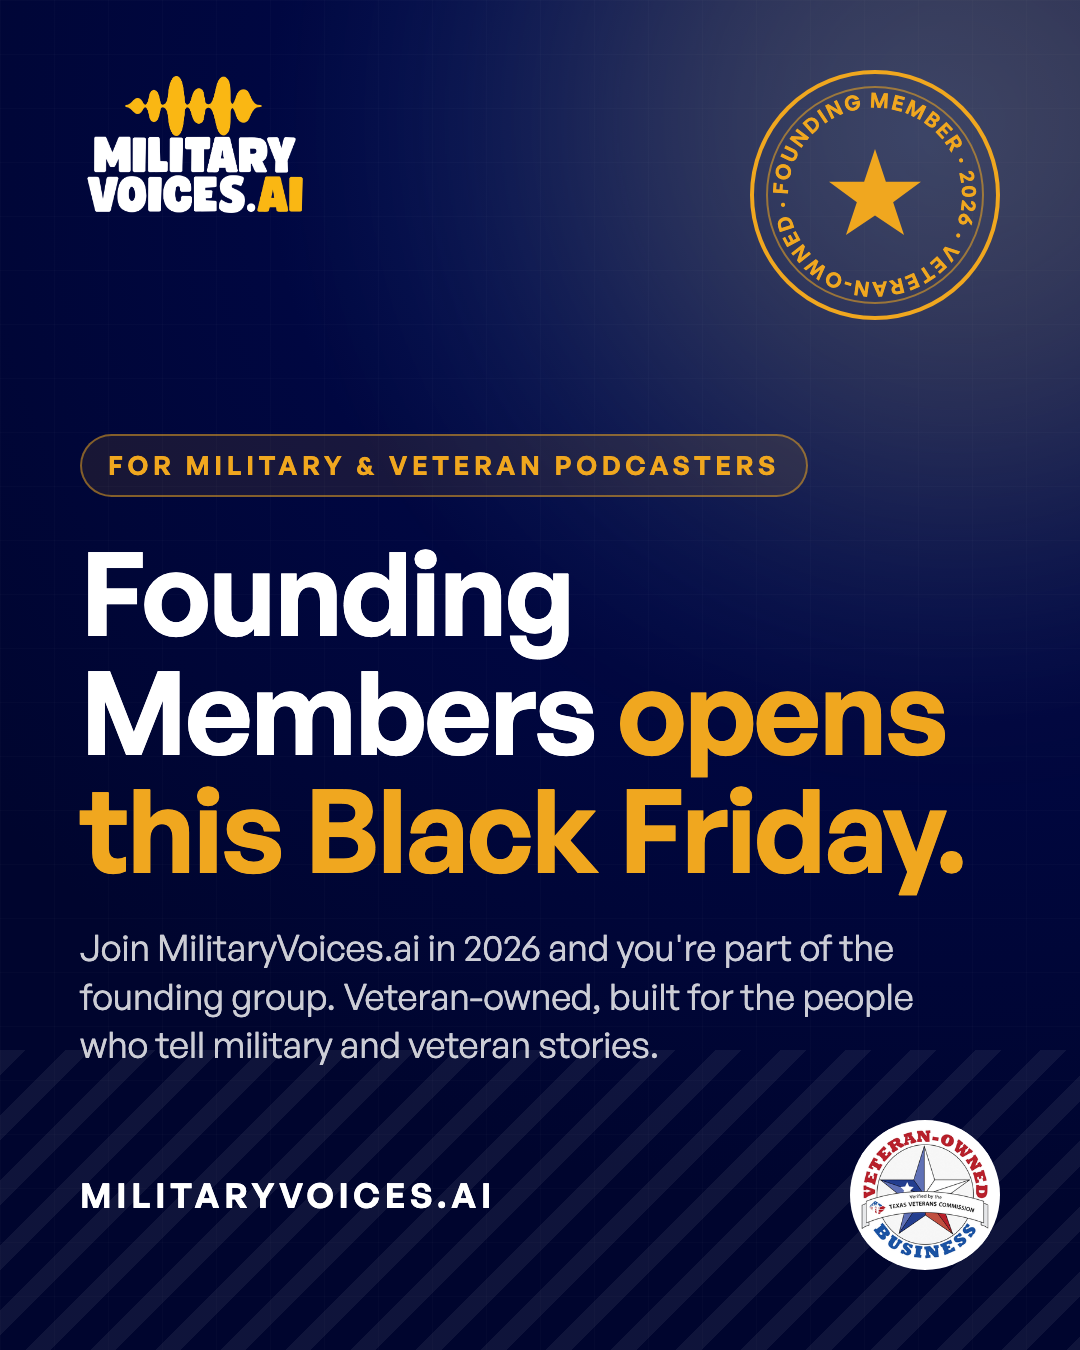
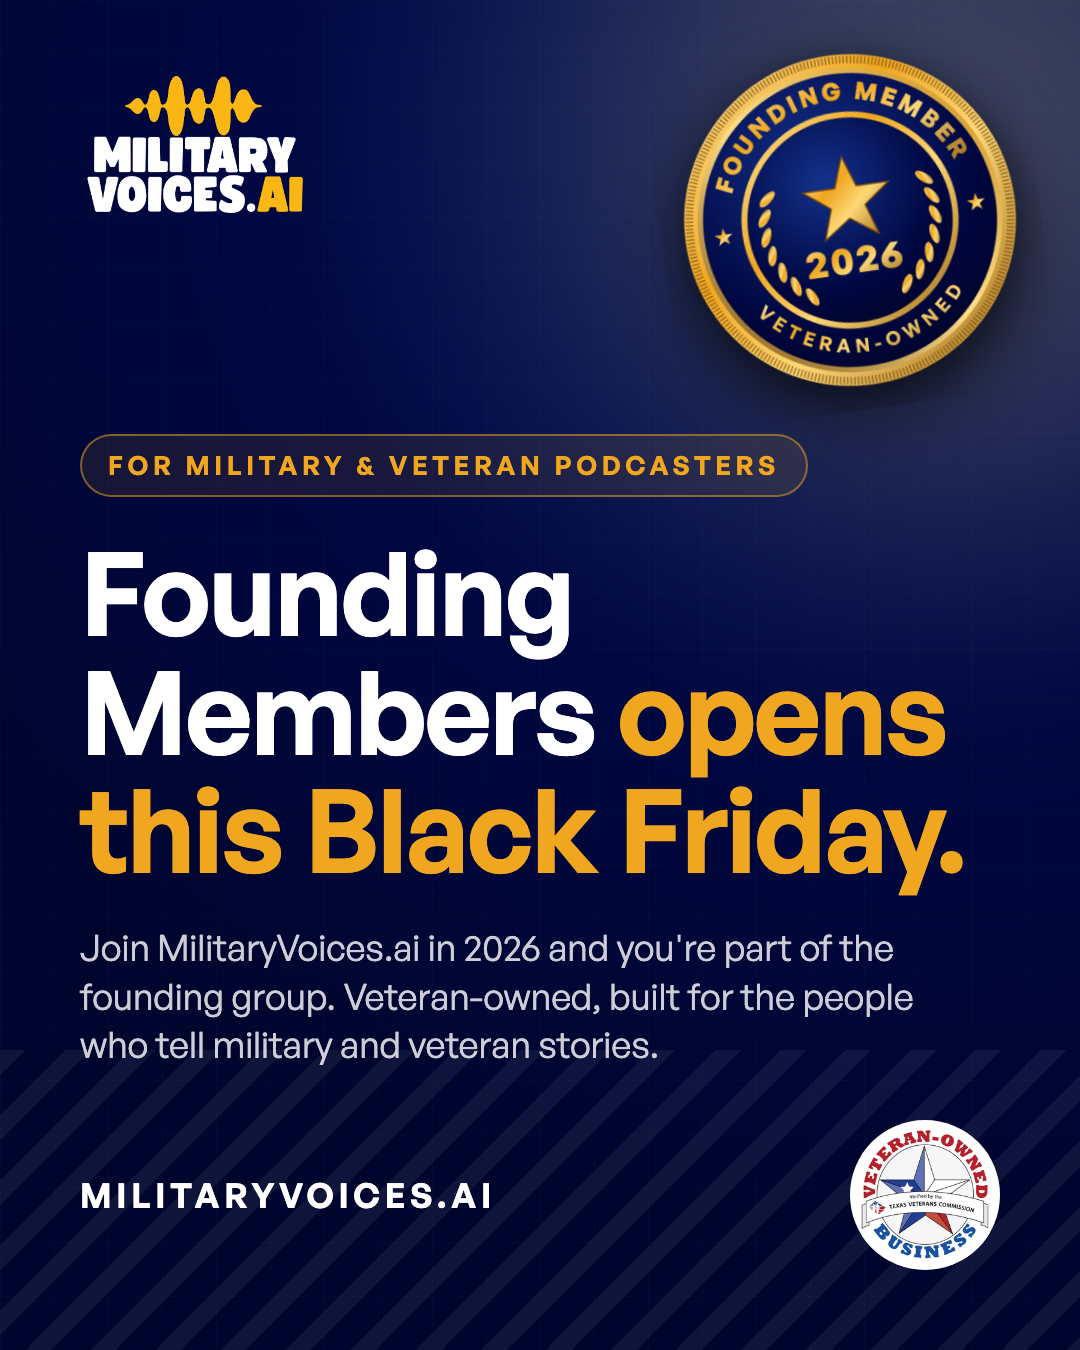
Mon 23 teaser: the Founding Member challenge coin (Andrew's pick) replaces the seal on both sizes; nothing posted

Changed region(s): [[0.6111, 0.0311, 0.9778, 0.3111]]

diff --git a/creative/black-friday/teaser.html b/creative/black-friday/teaser.html
@@ -2,7 +2,7 @@
 <!--
   Founding Members 2026: the Mon 23 Nov teaser graphic (draft for Andrew's approval; nothing posts without his go).
   Render: teaser.html?size=portrait (1080×1350, Instagram/Facebook) or ?size=wide (1600×900, LinkedIn/Facebook/X).
-  Logo and badge are the site's own (client/public). No names, no numbers, no date beyond Black Friday.
+  Logo and Veteran-Owned badge are the site's own (client/public); the coin is badge-coin.png (Andrew's pick, 20 Nov). No names, no numbers, no date beyond Black Friday.
 -->
 <html>
 <head>
@@ -22,10 +22,7 @@
   .stripes { position: absolute; left: 0; right: 0; bottom: 0; opacity: .06;
     background: repeating-linear-gradient(135deg, #fff 0 18px, transparent 18px 46px); }
   .logo { position: absolute; }
-  .seal { position: absolute; border-radius: 50%; border: 4px solid #F0A71F; display: flex; align-items: center; justify-content: center; }
-  .seal::before { content: ""; position: absolute; inset: 12px; border-radius: 50%; border: 2px solid rgba(240,167,31,.55); }
-  .seal svg { position: absolute; inset: 0; width: 100%; height: 100%; }
-  .seal .star { color: #F0A71F; }
+  .seal { position: absolute; transform: rotate(-8deg); filter: drop-shadow(0 24px 40px rgba(0,0,0,.5)); }
   .eyebrow { display: inline-block; color: #F0A71F; font-weight: 600; letter-spacing: .18em; text-transform: uppercase; border: 2px solid rgba(240,167,31,.5); background: rgba(240,167,31,.1); border-radius: 999px; }
   h1 { font-weight: 600; letter-spacing: -.02em; line-height: 1.02; text-wrap: balance; }
   h1 em { font-style: normal; color: #F0A71F; }
@@ -40,7 +37,7 @@
   .portrait .glow { width: 760px; height: 760px; right: -260px; top: -260px; }
   .portrait .stripes { height: 300px; }
   .portrait .logo { left: 80px; top: 76px; width: 230px; }
-  .portrait .seal { right: 80px; top: 70px; width: 250px; height: 250px; }
+  .portrait .seal { right: 40px; top: 30px; width: 380px; height: 380px; }
   .portrait .copy { position: absolute; left: 80px; right: 80px; bottom: 280px; }
   .portrait .eyebrow { font-size: 26px; padding: 12px 26px; }
   .portrait h1 { font-size: 116px; margin-top: 36px; }
@@ -54,10 +51,10 @@
   .wide .glow { width: 700px; height: 700px; right: -180px; top: -240px; }
   .wide .stripes { height: 200px; }
   .wide .logo { left: 96px; top: 70px; width: 190px; }
-  .wide .seal { right: 120px; top: 230px; width: 340px; height: 340px; }
+  .wide .seal { right: 40px; top: 190px; width: 470px; height: 470px; }
   .wide .copy { position: absolute; left: 96px; width: 1010px; bottom: 200px; }
   .wide .eyebrow { font-size: 22px; padding: 10px 22px; }
-  .wide h1 { font-size: 92px; margin-top: 26px; }
+  .wide h1 { font-size: 84px; margin-top: 26px; }
   .wide .sub { font-size: 30px; margin-top: 26px; max-width: 920px; }
   .wide .foot { left: 96px; right: 96px; bottom: 64px; }
   .wide .url { font-size: 28px; }
@@ -71,15 +68,7 @@
   <div class="stripes"></div>
   <img class="logo" src="../../client/public/logo-lockup-dark.png" alt="MilitaryVoices.ai" />
 
-  <div class="seal">
-    <svg viewBox="0 0 200 200" aria-hidden="true">
-      <defs><path id="ring" d="M100,100 m-72,0 a72,72 0 1,1 144,0 a72,72 0 1,1 -144,0" /></defs>
-      <text font-family="General Sans, Inter, sans-serif" font-weight="600" font-size="17" fill="#F0A71F">
-        <textPath href="#ring" startOffset="0" textLength="446" lengthAdjust="spacing">FOUNDING MEMBER · 2026 · VETERAN-OWNED ·</textPath>
-      </text>
-      <polygon class="star" fill="#F0A71F" points="100,62 109,89 138,89 115,106 124,133 100,117 76,133 85,106 62,89 91,89" />
-    </svg>
-  </div>
+  <img class="seal" src="badge-coin.png" alt="Founding Member 2026 challenge coin" />
 
   <div class="copy">
     <span class="eyebrow">For military &amp; veteran podcasters</span>

diff --git a/creative/black-friday/teaser-review.md b/creative/black-friday/teaser-review.md
@@ -8,7 +8,7 @@ Nothing posts, schedules or emails until Andrew approves this exact text. Posts 
 - The source is teaser.html, so any word can change and both sizes can be redrawn in a minute.
 - What's on it:
   - the white MilitaryVoices.ai logo
-  - a "Founding Member · 2026 · Veteran-Owned" seal
+  - the Founding Member challenge coin (Andrew picked A, the coin, 20 Nov; badge-coin.png)
   - the line "For military & veteran podcasters"
   - the headline "Founding Members opens this Black Friday."
   - one line of body text
